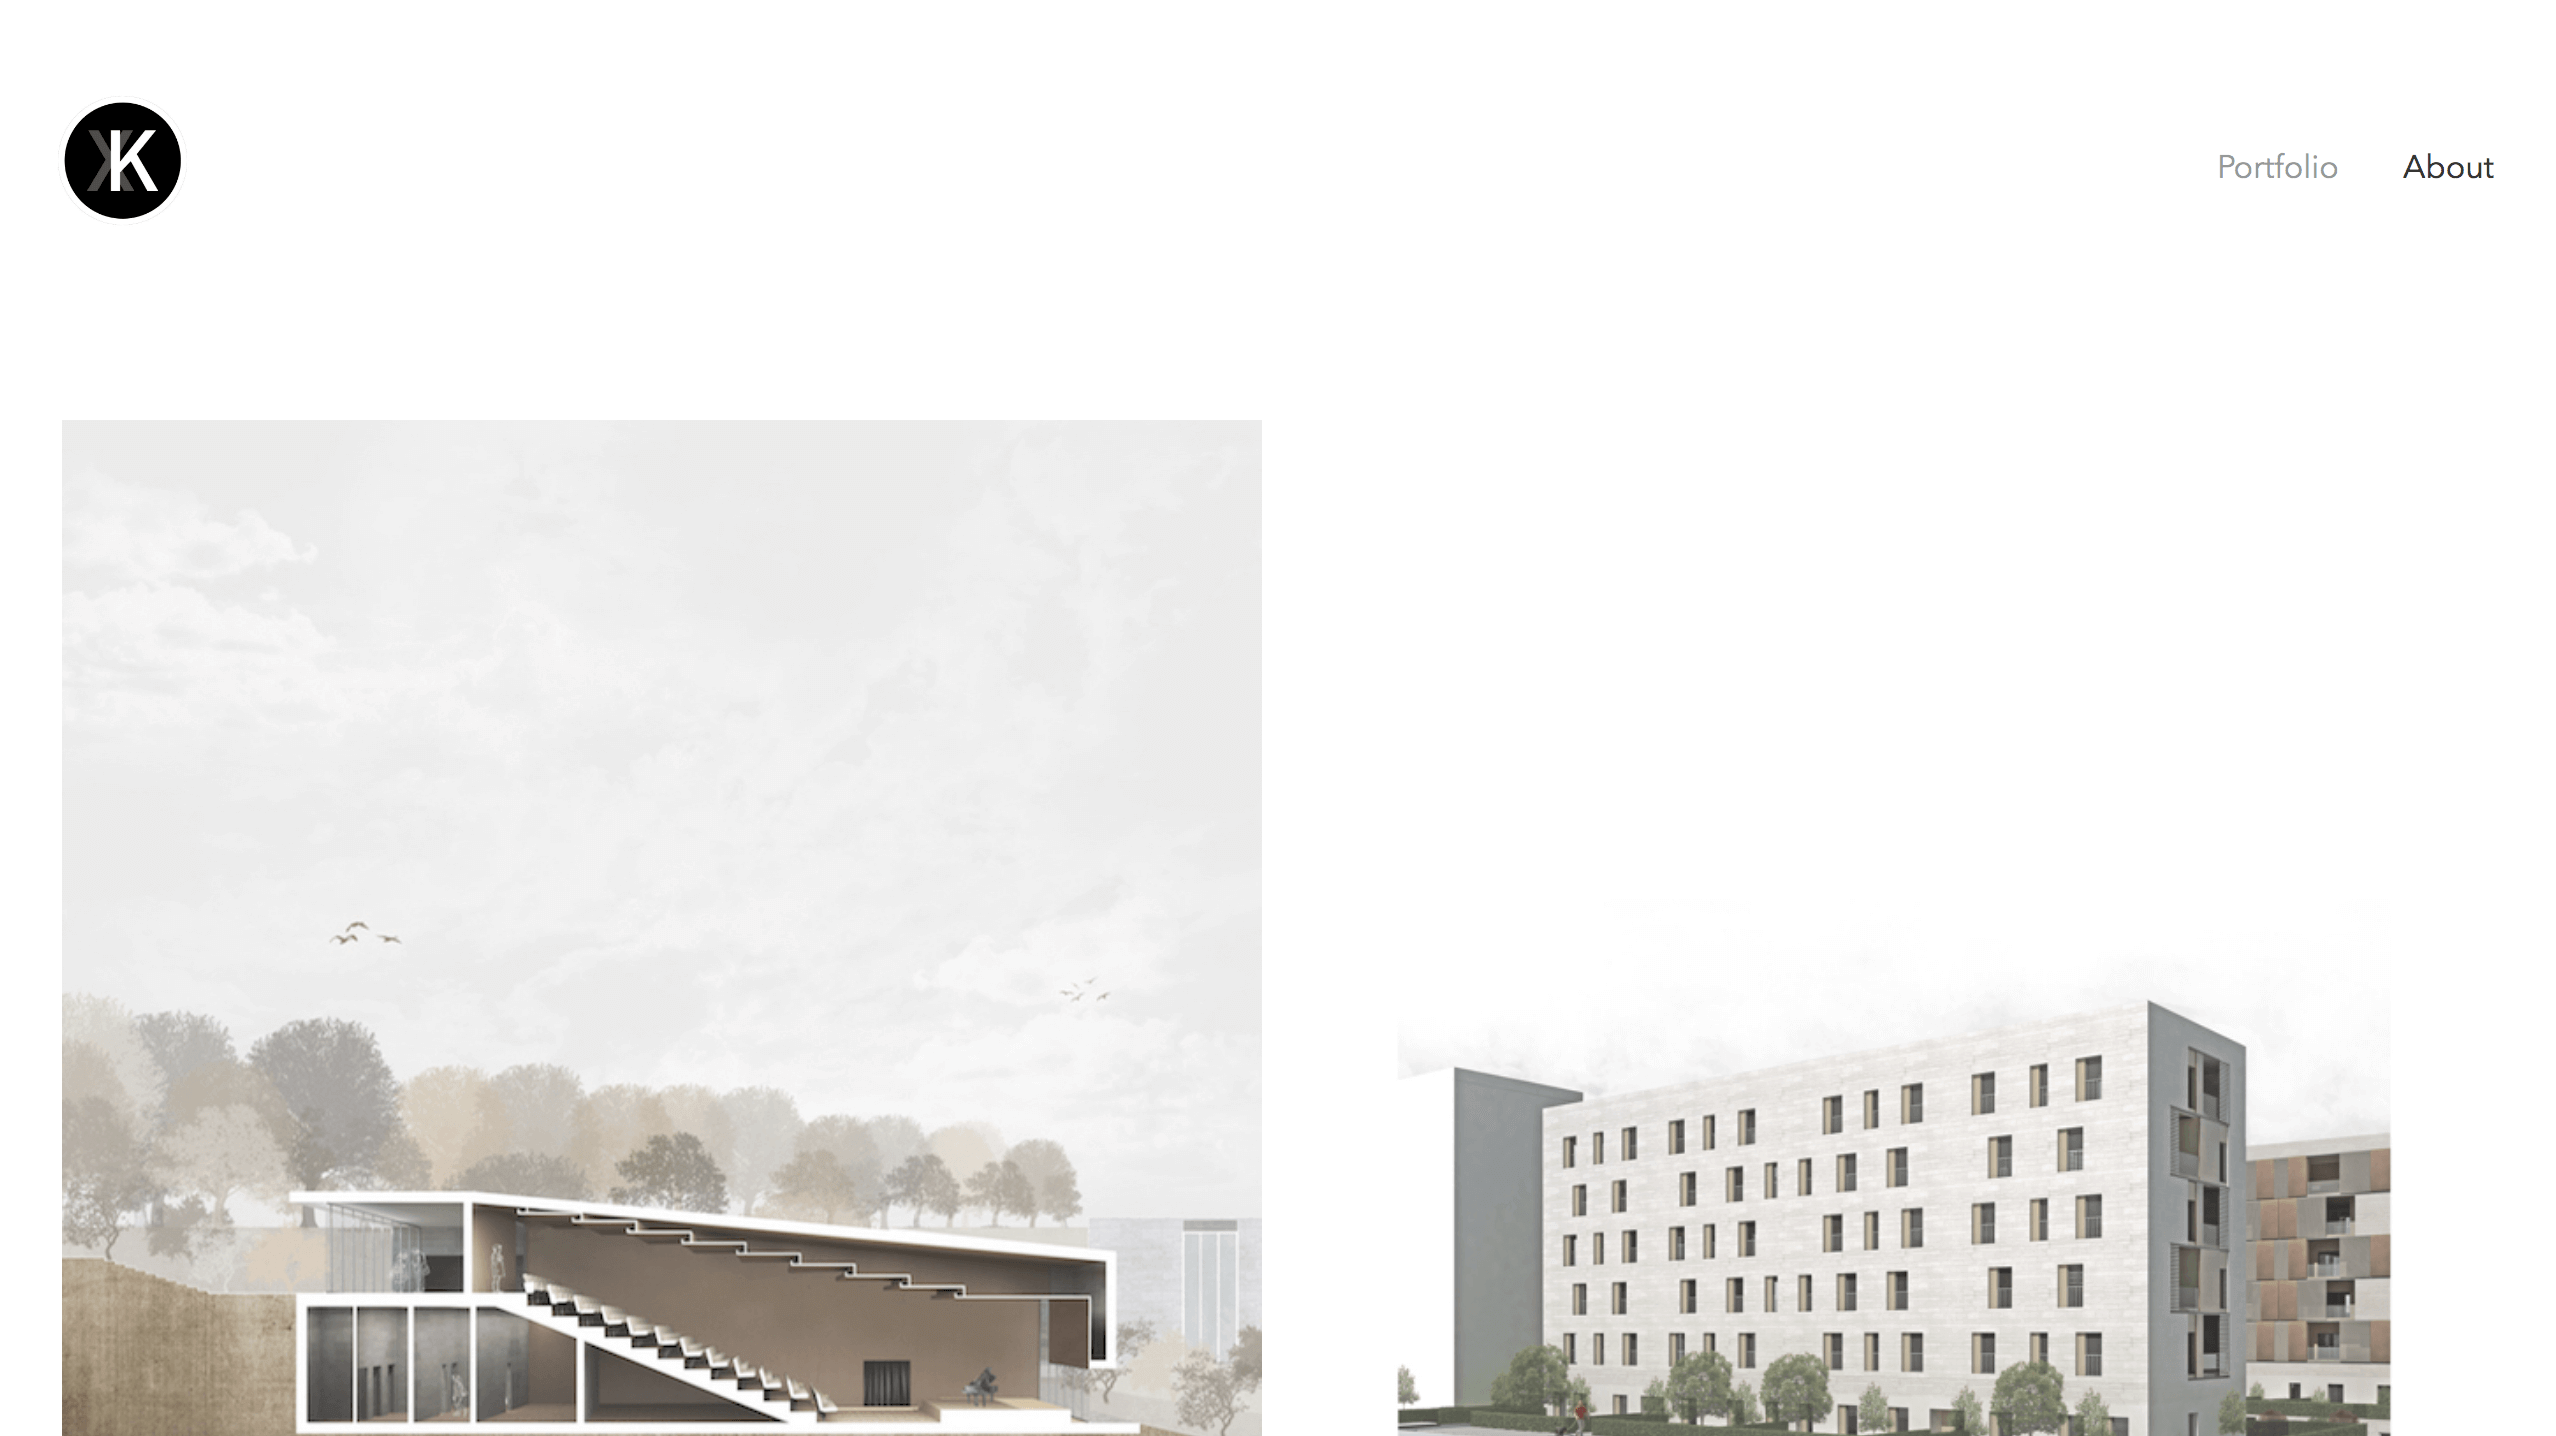
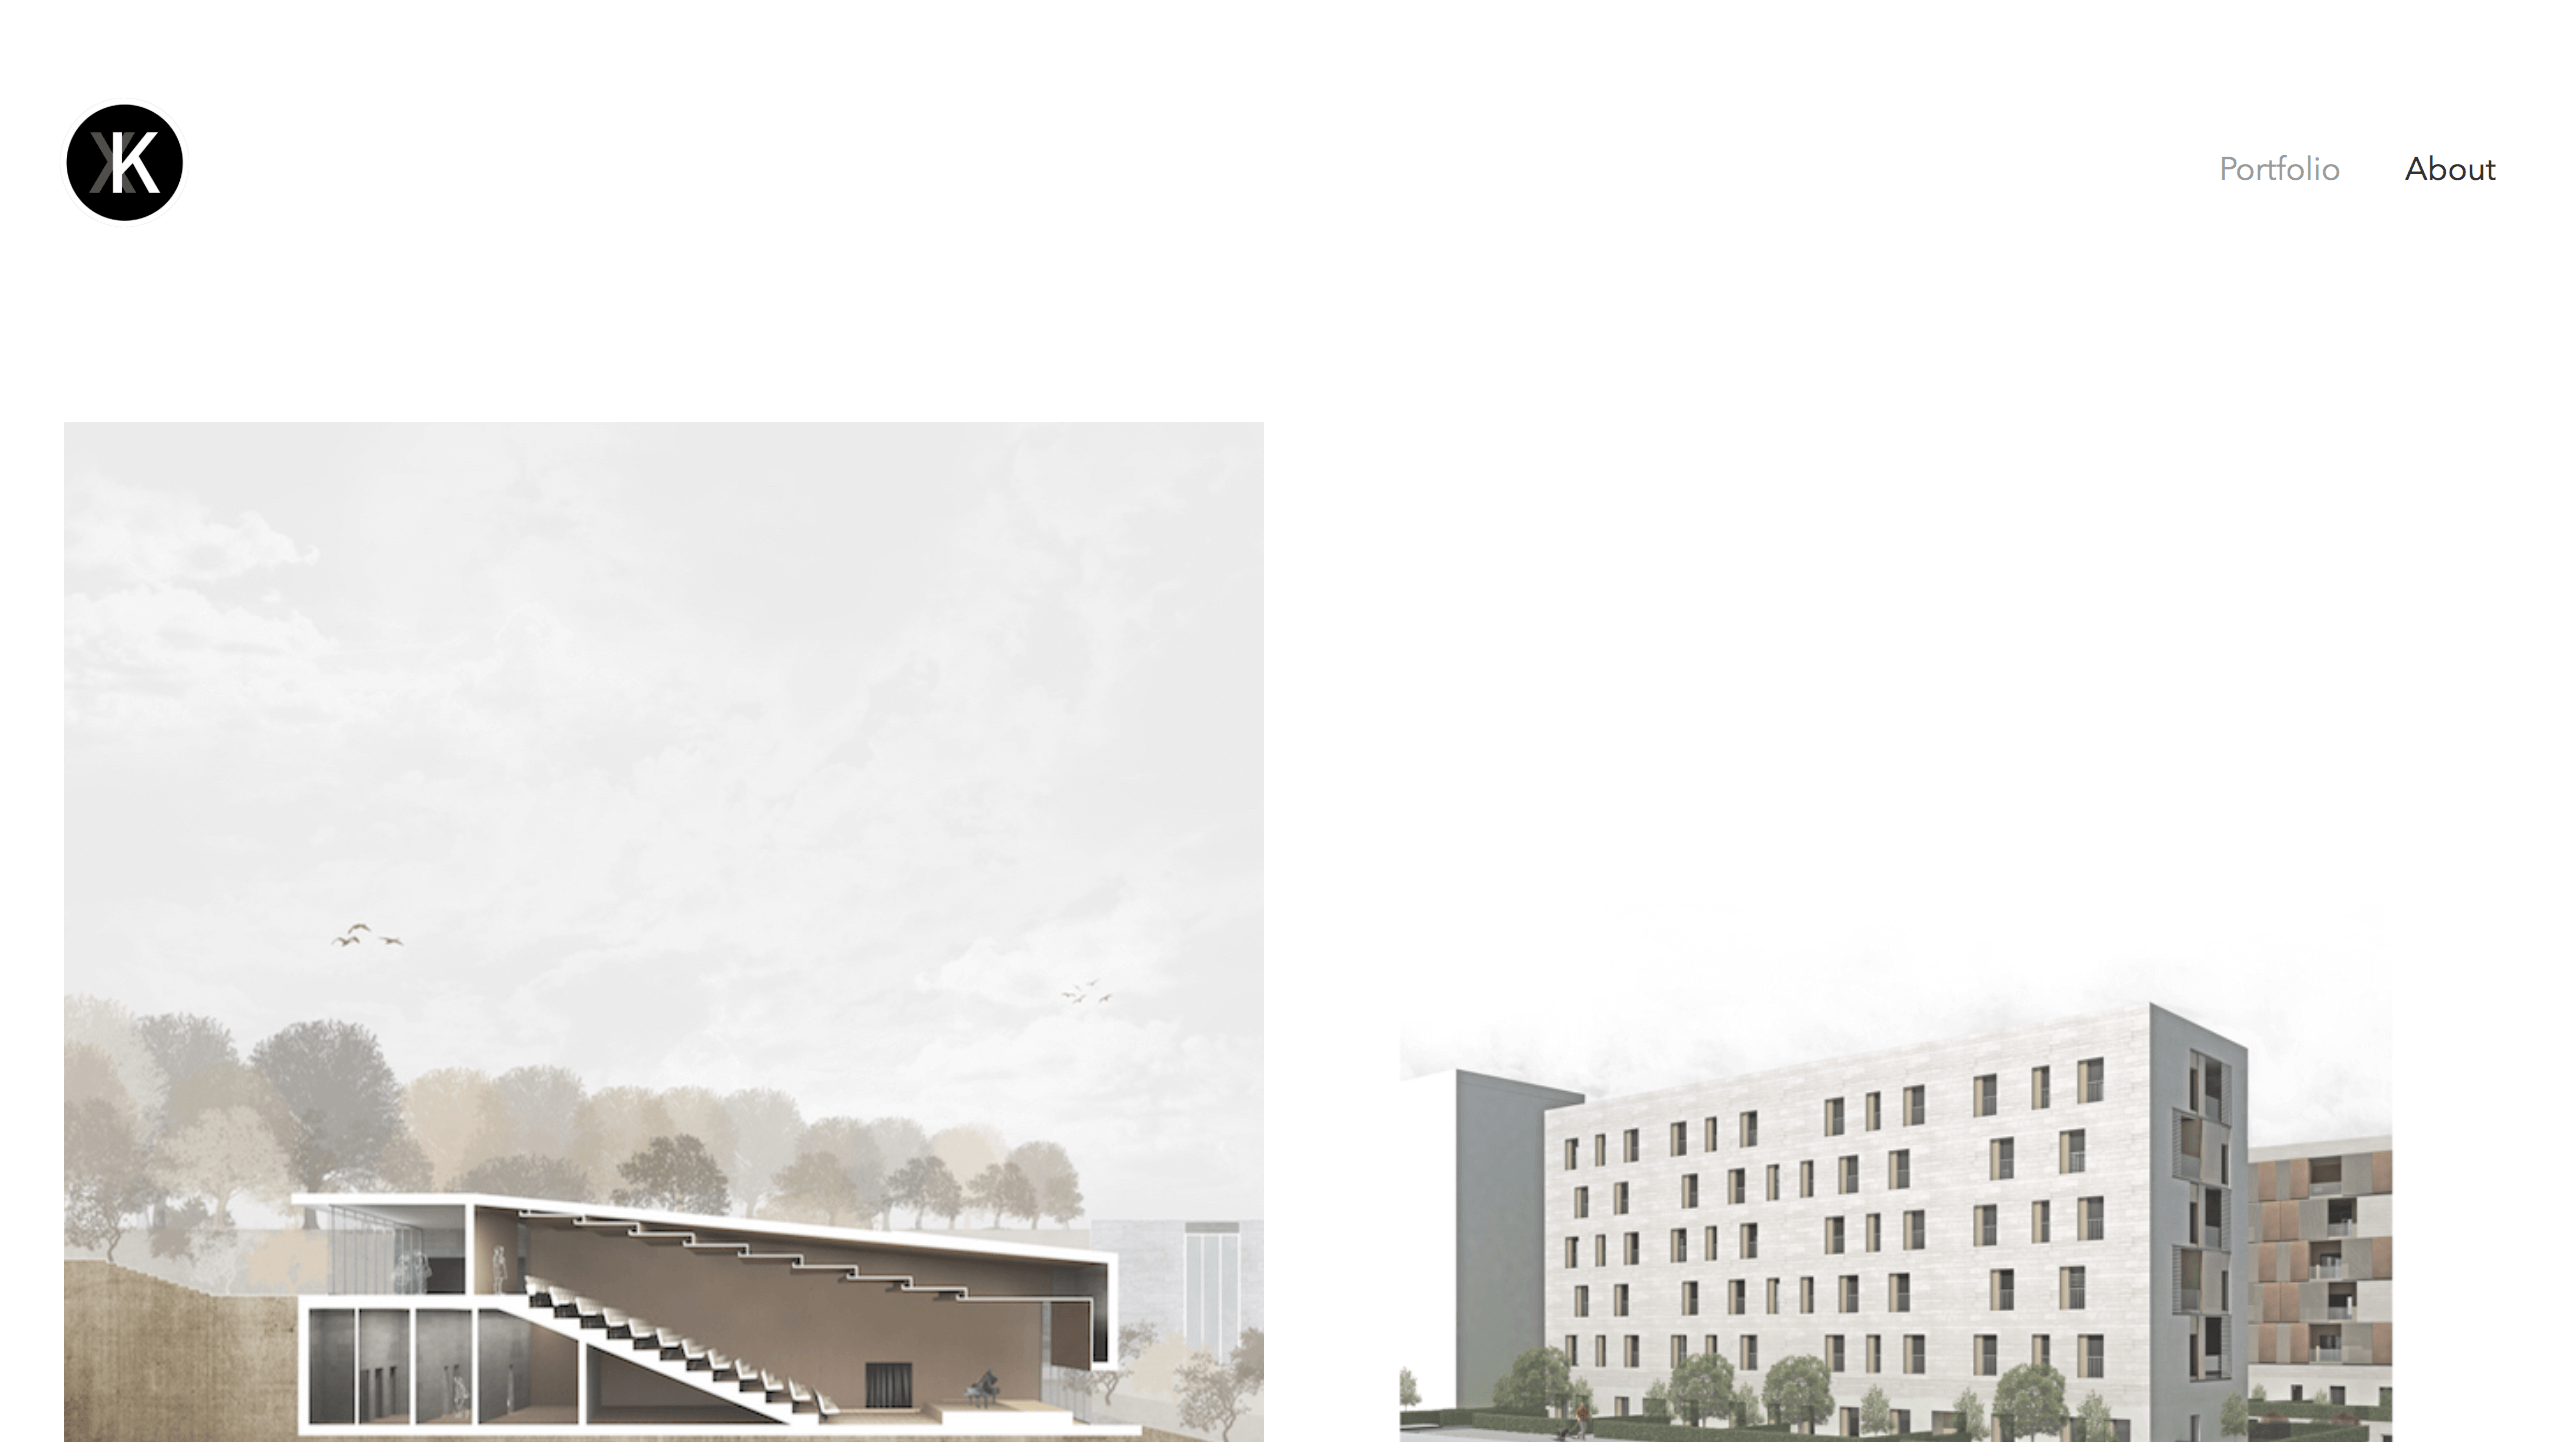
Update projects img

diff --git a/src/pages/projects.js b/src/pages/projects.js
@@ -16,7 +16,7 @@ const Projects = ({ data }) => {
           <p>
             Explore some of my favorite projects I've worked on over the
             last few months.
-        </p>
+          </p>
 
           <Row>
 
@@ -118,7 +118,7 @@ export default Projects
 
 export const query = graphql`
   query imageGallery {
-    image1: imageSharp(id: {regex: "/projectOne.png/"}) {
+    image1: imageSharp(id: {regex: "/project1.png/"}) {
       sizes(maxWidth: 1240) {
         ...GatsbyImageSharpSizes
       }
